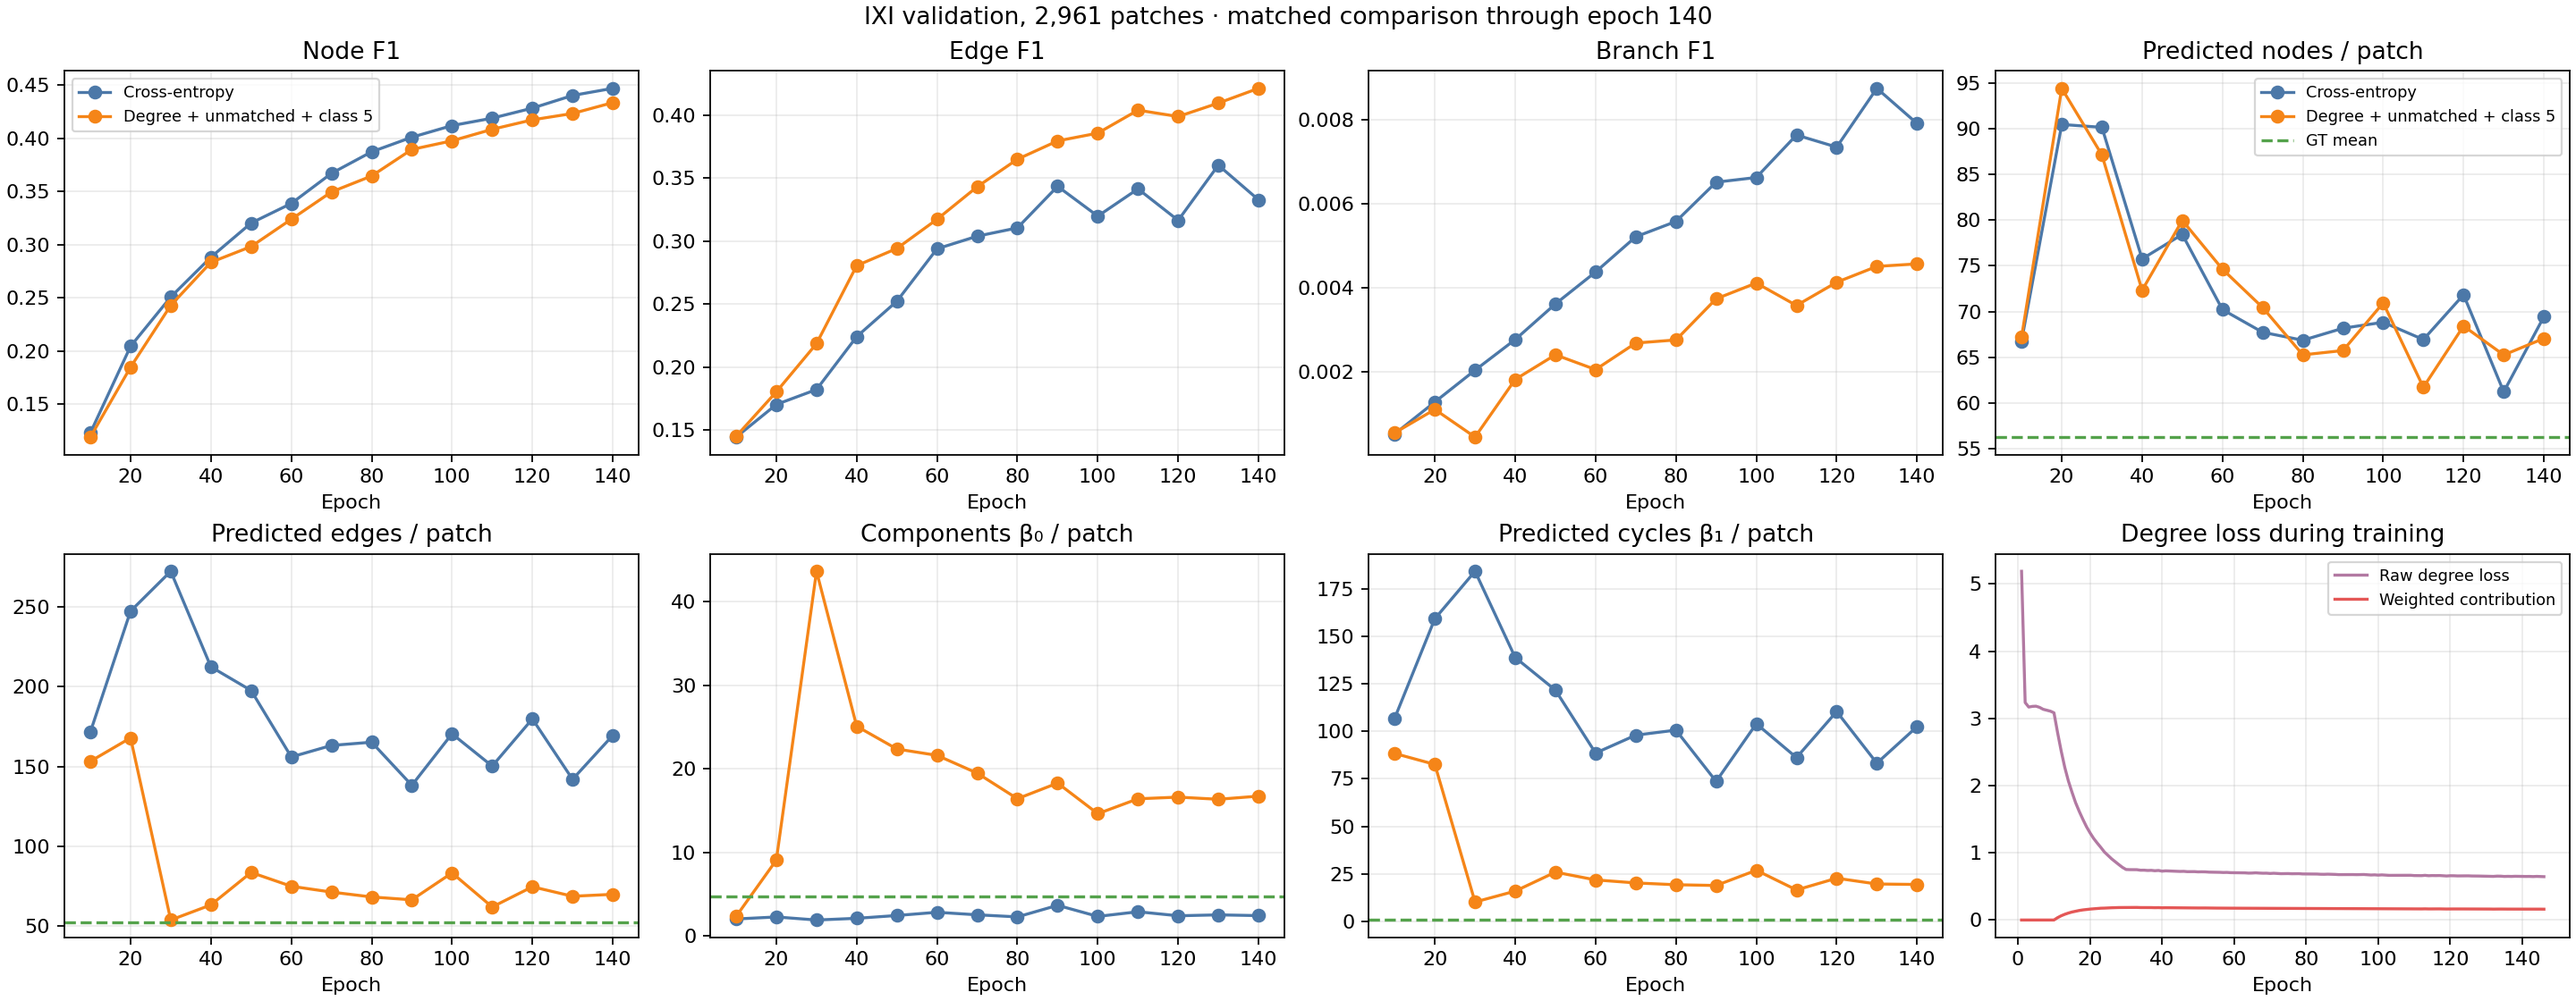
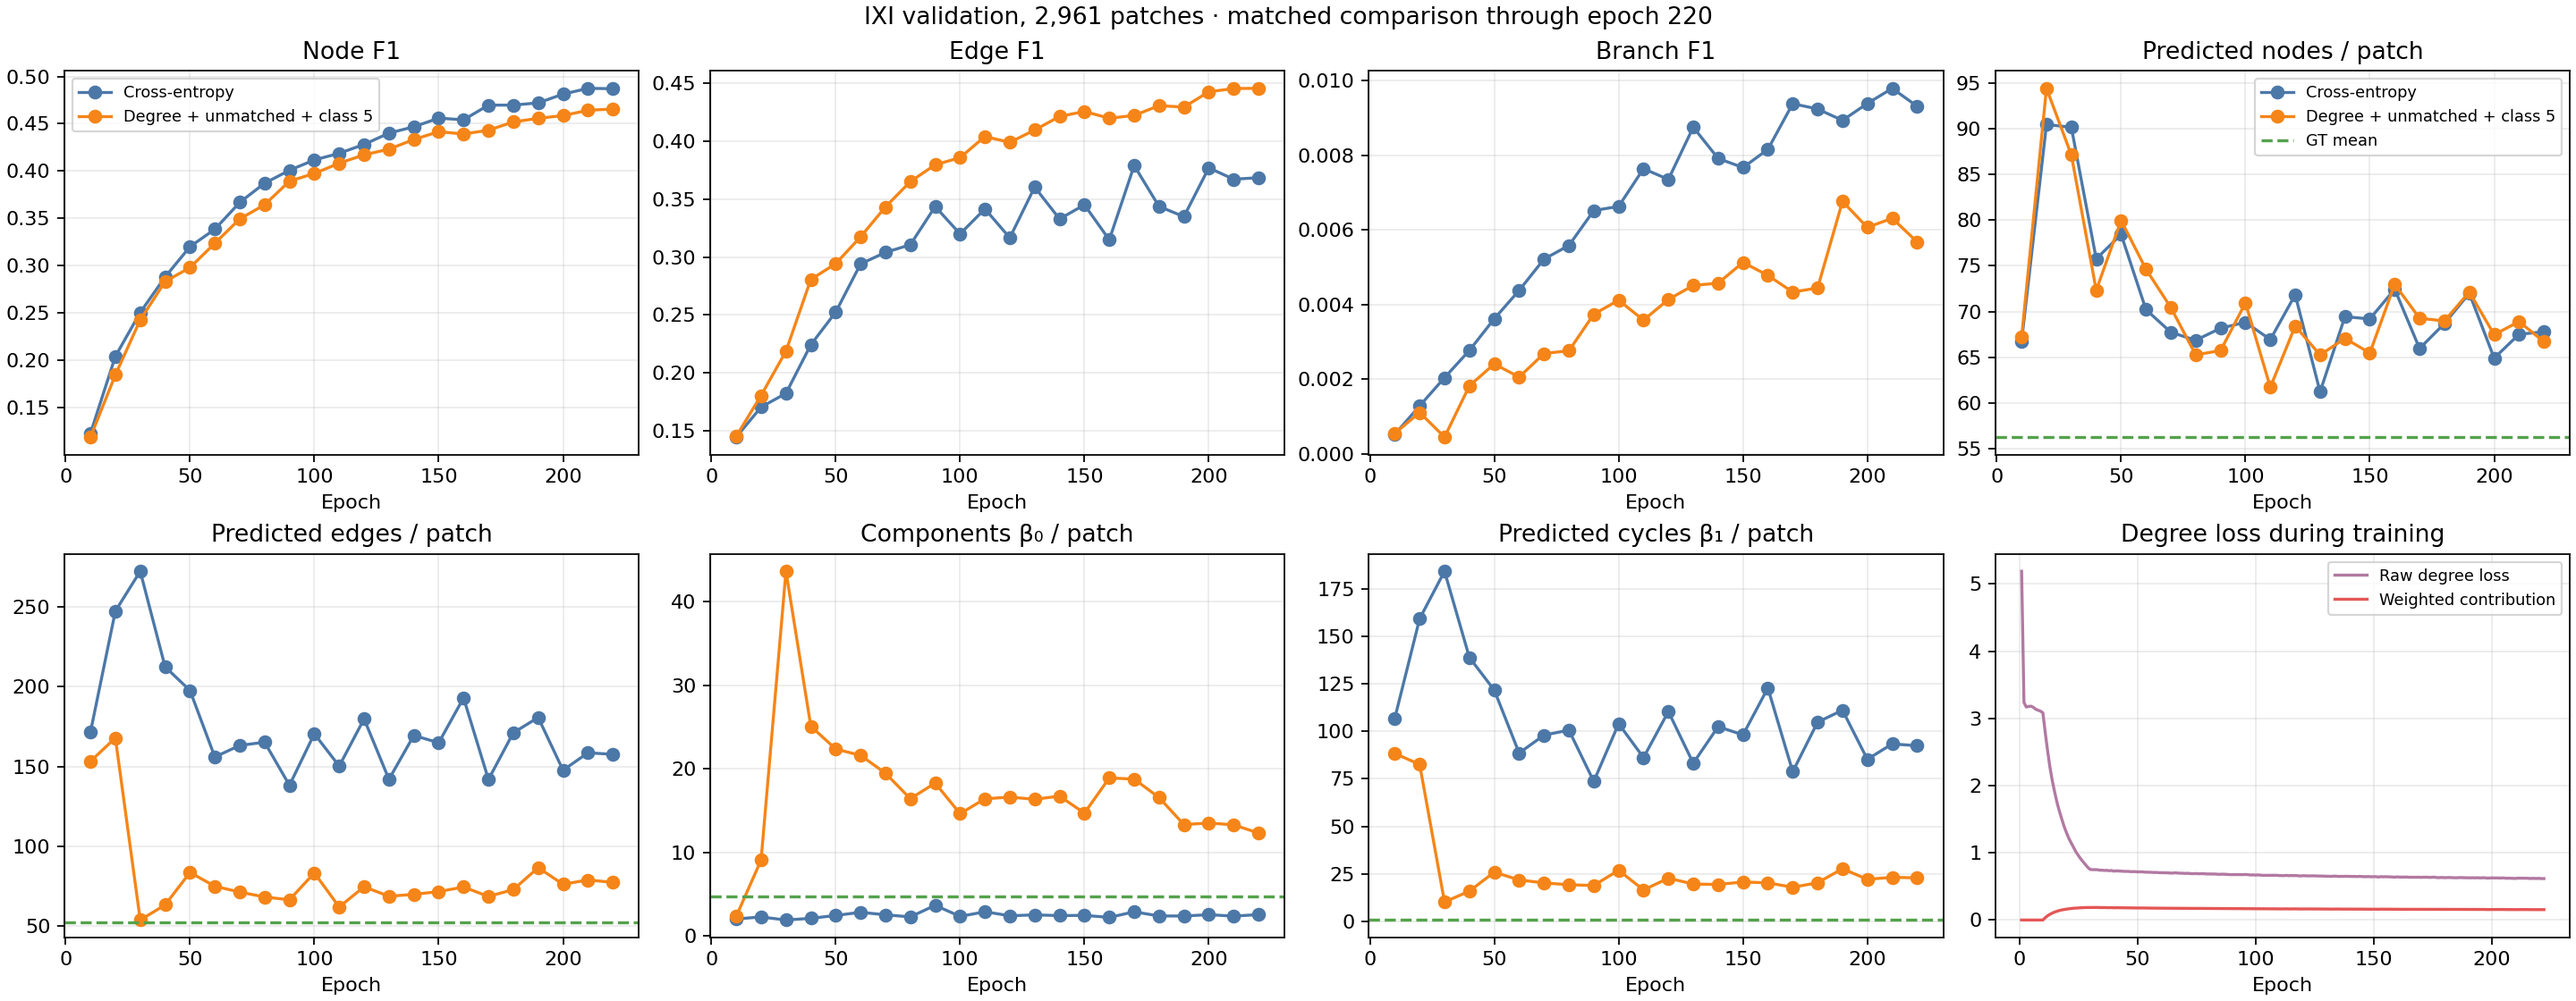
Update degree-consistency validation through epoch 220

diff --git a/docs/research/evidence/degree_consistency/README.md b/docs/research/evidence/degree_consistency/README.md
@@ -30,15 +30,15 @@ limit. Dependent job **471400** will evaluate its validation-selected checkpoint
 on all 2,384 held-out IXI test patches with both plain and fixed 0.5-degree
 decoding; it will also save four sample images for each setting.
 
-![Matched validation progress through epoch 140](progress.png)
+![Matched validation progress through epoch 220](progress.png)
 
-At epoch 140, the new run predicted 70 edges and 20 cycles per validation
-patch, versus 169 edges and 102 cycles for the baseline at the same epoch.
-Ground truth averages 52 edges and 0.83 cycles. Edge F1 was 0.421 versus
-0.333, but node F1 was 0.433 versus 0.447. The new graph was also more
-fragmented: 16.7 predicted components per patch versus 2.4 for the baseline
-and 4.7 in ground truth. Branch F1 was 0.0046 versus 0.0079. Predicted nodes
-were 67 versus 69 (ground truth: 56), so the higher classification weight has
+At epoch 220, the new run predicted 77 edges and 23 cycles per validation
+patch, versus 158 edges and 92 cycles for the baseline at the same epoch.
+Ground truth averages 52 edges and 0.83 cycles. Edge F1 was 0.446 versus
+0.369, but node F1 was 0.466 versus 0.487. The new graph was also more
+fragmented: 12.3 predicted components per patch versus 2.5 for the baseline
+and 4.7 in ground truth. Branch F1 was 0.0057 versus 0.0093. Predicted nodes
+were 67 versus 68 (ground truth: 56), so the higher classification weight has
 not eliminated node overprediction. These are interim validation results, not
 the final test ranking. The lower cycle count alone is not sufficient evidence
 of better connectivity; the test comparison will include the 0.5 decoder.
